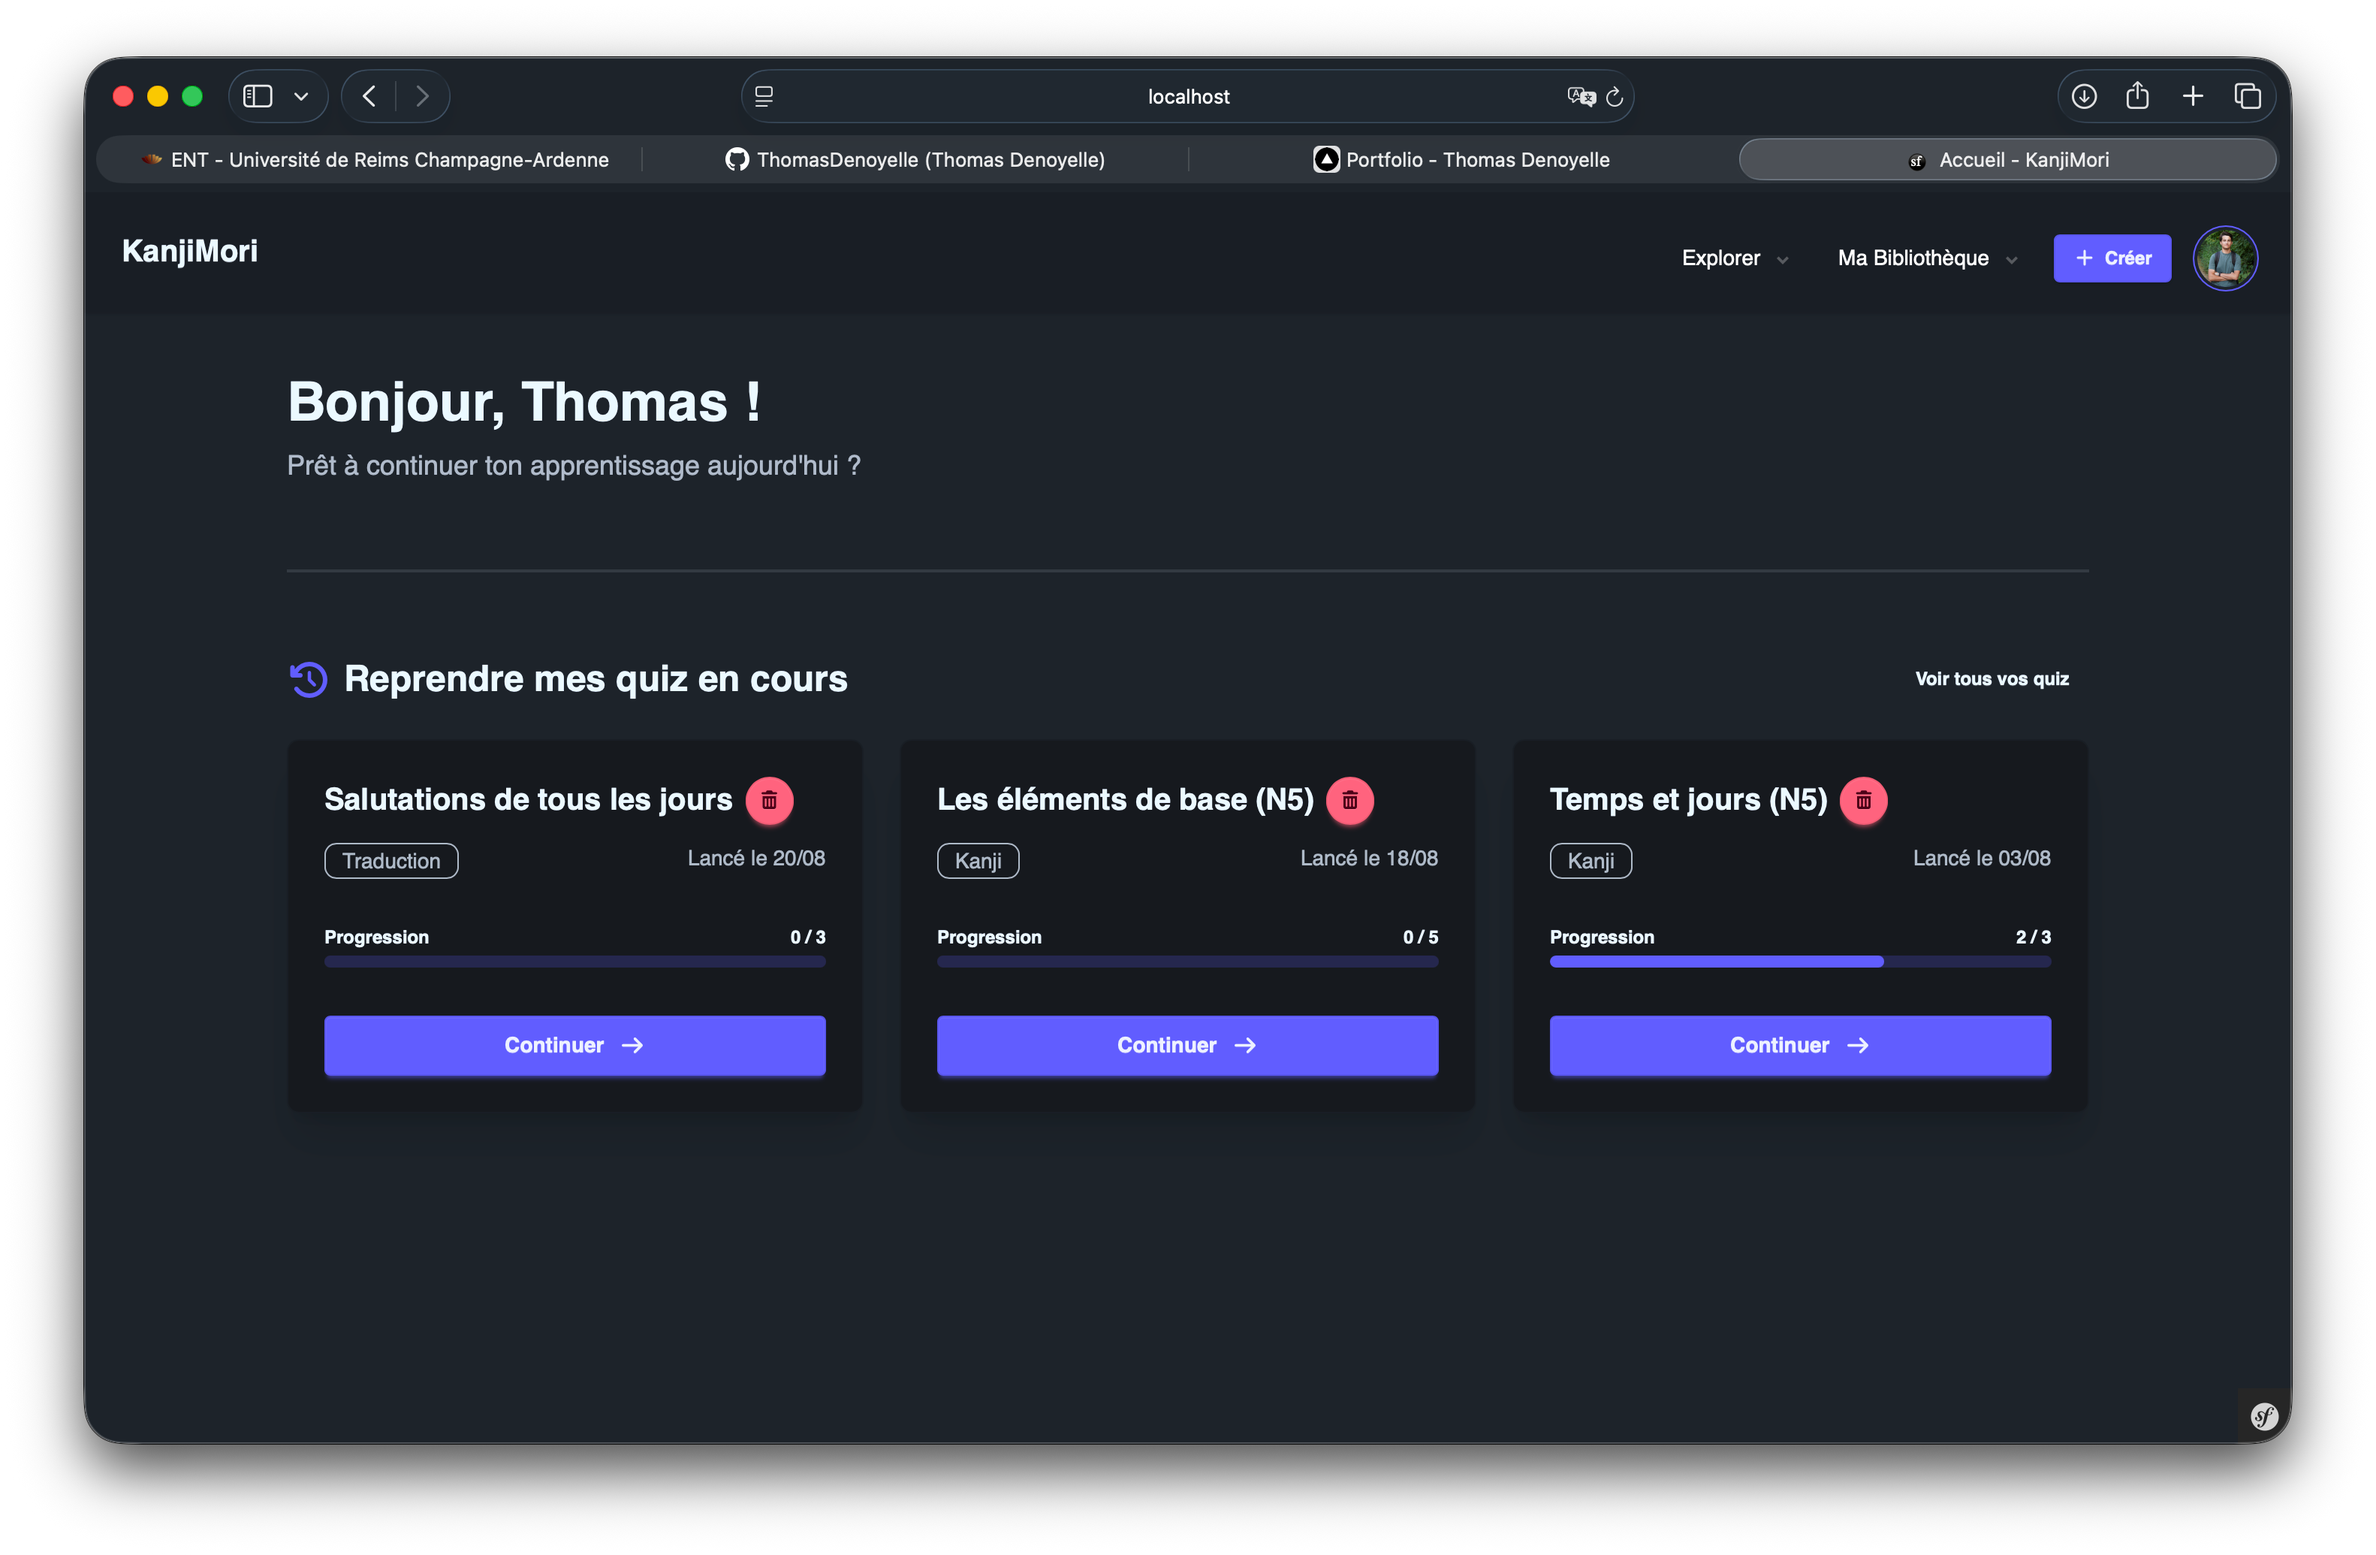
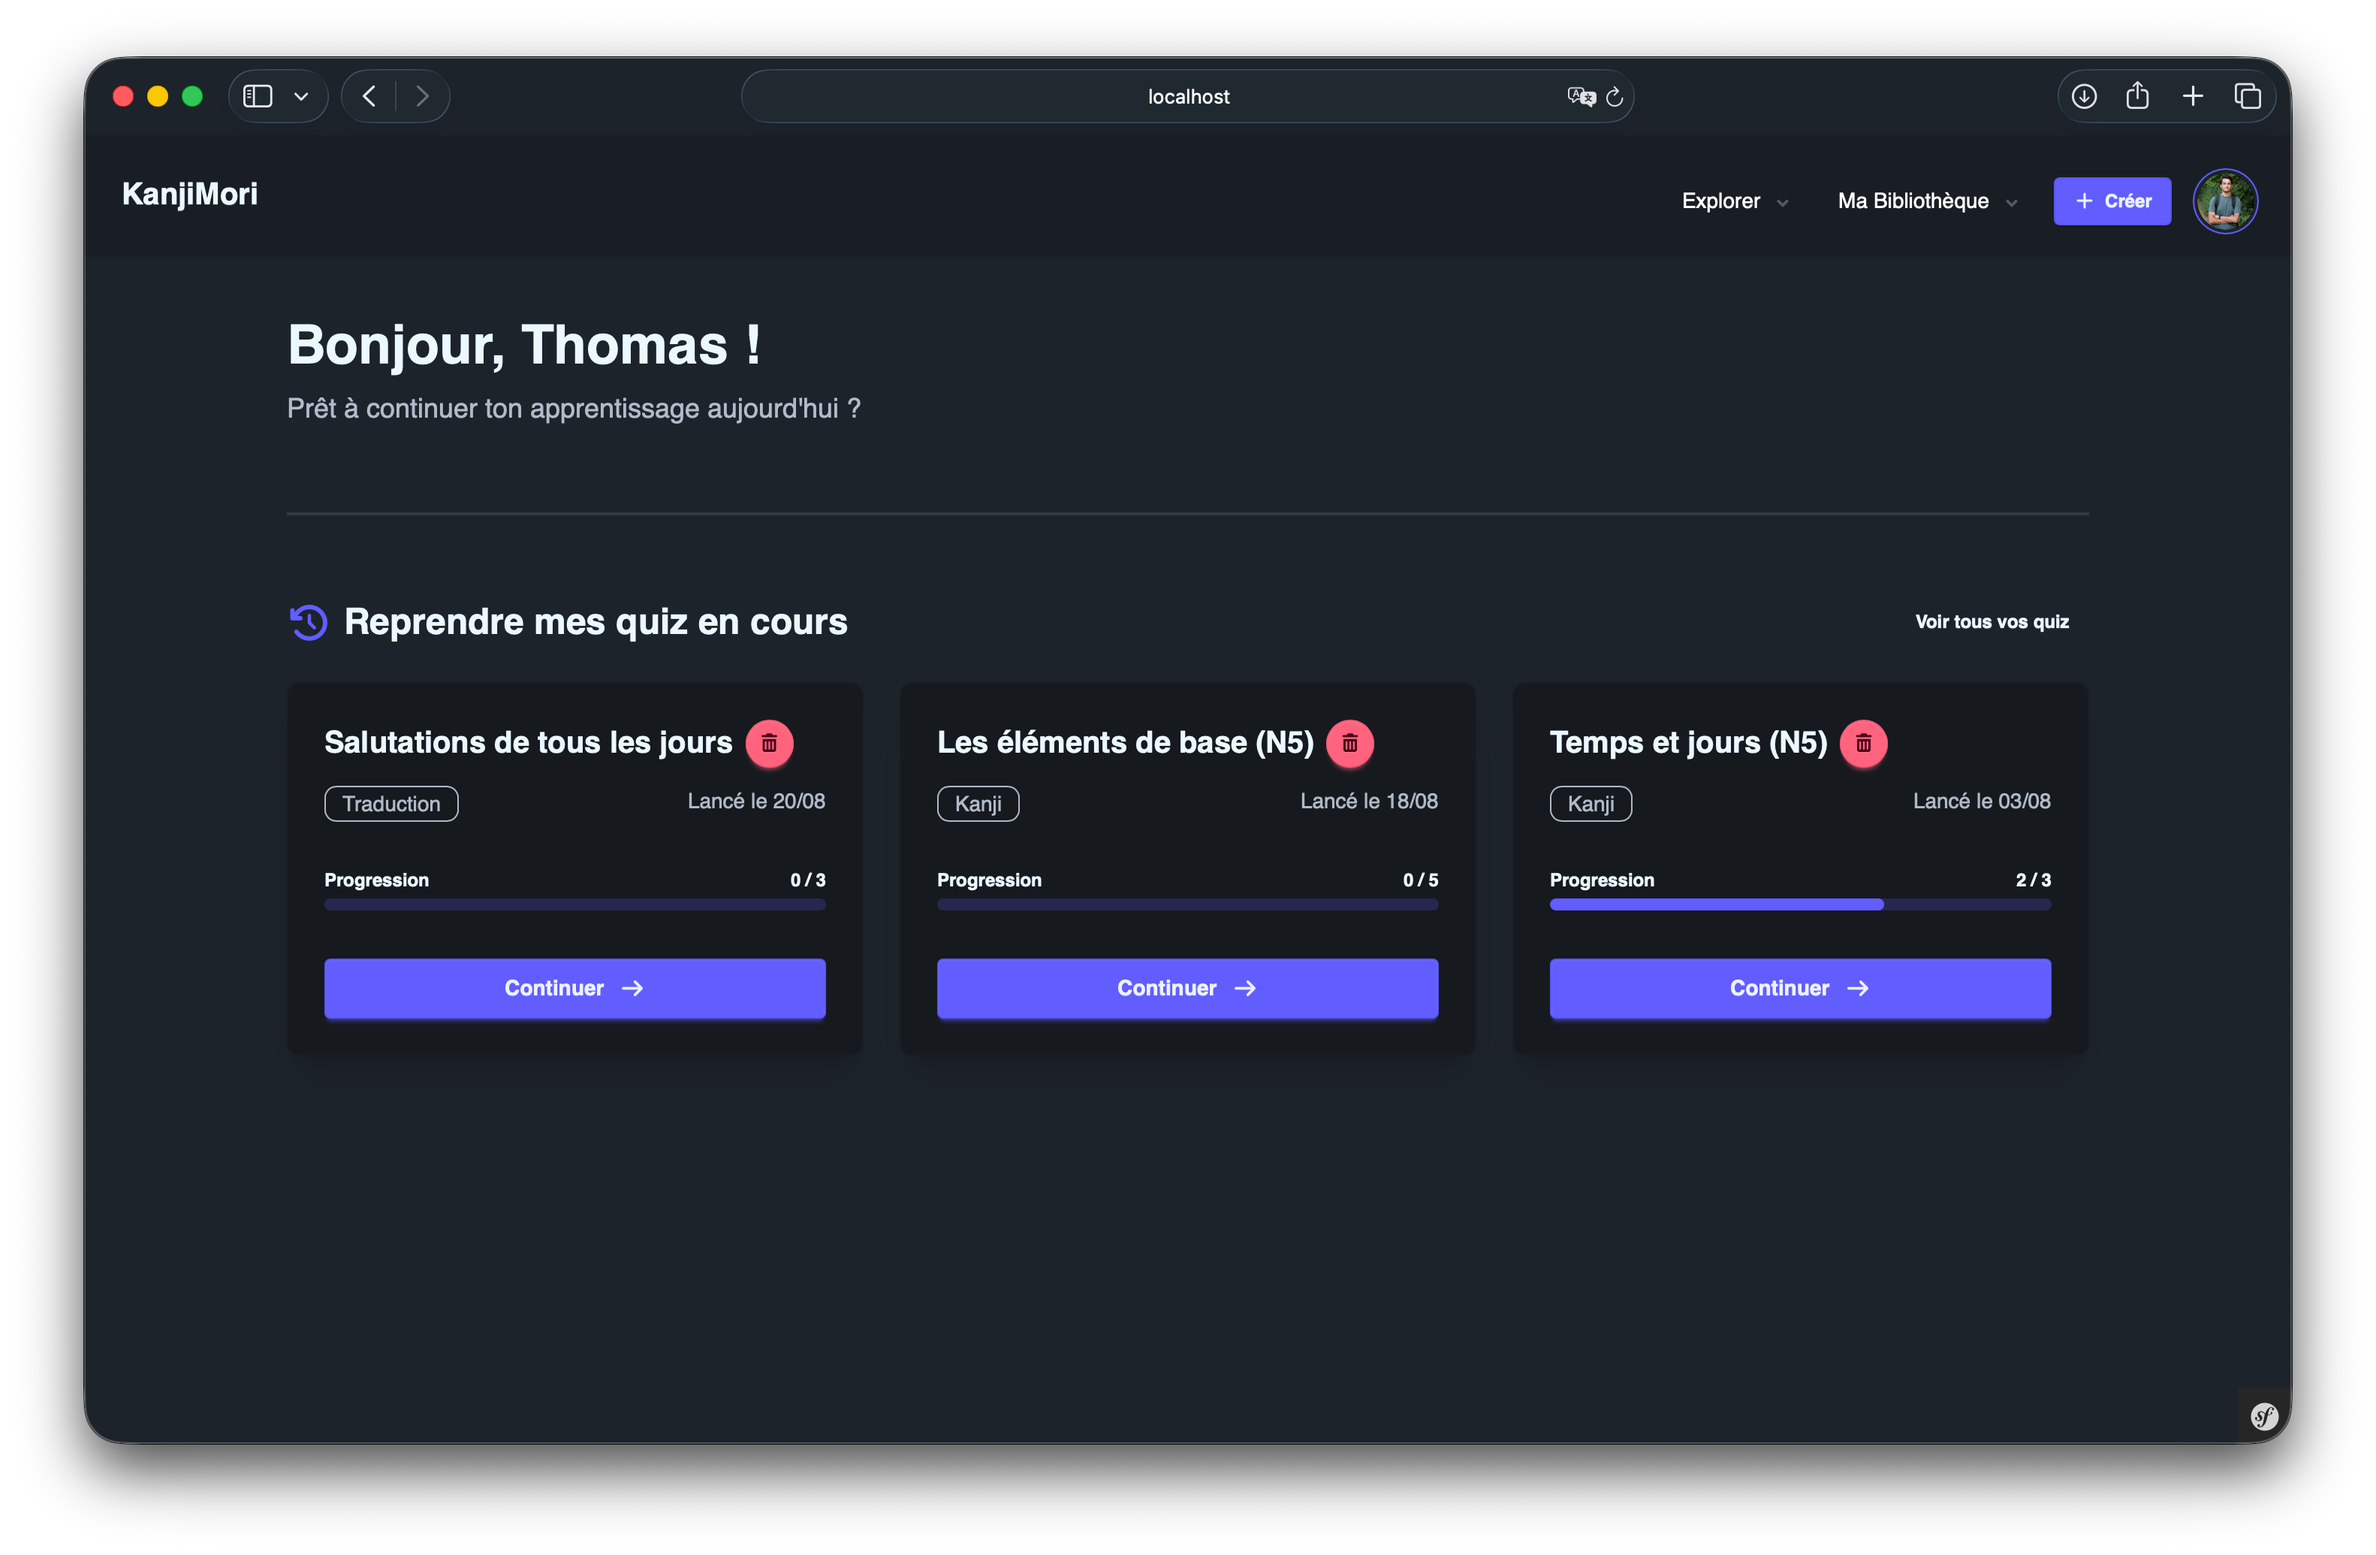
feat: update project links and add KanjiMori Mobile card

diff --git a/src/components/projects/projects.tsx b/src/components/projects/projects.tsx
@@ -11,14 +11,17 @@ export default function Projects() {
 
             <div className="w-full max-w-6xl py-10">
                 <div className="grid grid-cols-1 md:grid-cols-2 gap-10">
-                    <ProjectCard title="Portfolio" img="/projects/portfolio-screen.png" link="https://github.com/ToMaTo1206/portfolio-next">
+                    <ProjectCard title="Portfolio" img="/projects/portfolio-screen.png" link="https://github.com/ThomasDenoyelle/portfolio-next">
                         Site portfolio me présentant moi, mon parcours, mes réalisations et mes outils
                     </ProjectCard>
-                    <ProjectCard title="FoodSaver" img="/projects/foodSaver.png" link="https://github.com/ToMaTo1206/symplynote-screen">
+                    <ProjectCard title="FoodSaver" img="/projects/foodSaver.png" link="https://github.com/ThomasDenoyelle/symplynote-screen">
                         Site web anti-gaspillage permettant de gérer son inventaire alimentaire et d'être alerté des aliments arrivant à expiration.
                     </ProjectCard>
-                    <ProjectCard title="KanjiMori" img="/projects/kanjimori.png" link="https://github.com/ToMaTo1206/kanji-mori">
+                    <ProjectCard title="KanjiMori" img="/projects/kanjimori.png" link="https://github.com/ThomasDenoyelle/KanjiMori">
                         Application de révision des kanji japonais
+                    </ProjectCard>
+                    <ProjectCard title="KanjiMori Mobile" img="" link="https://github.com/ThomasDenoyelle/kanjimori_mobile">
+                        Application mobile de révision des kanji japonais
                     </ProjectCard>
                 </div>
             </div>
